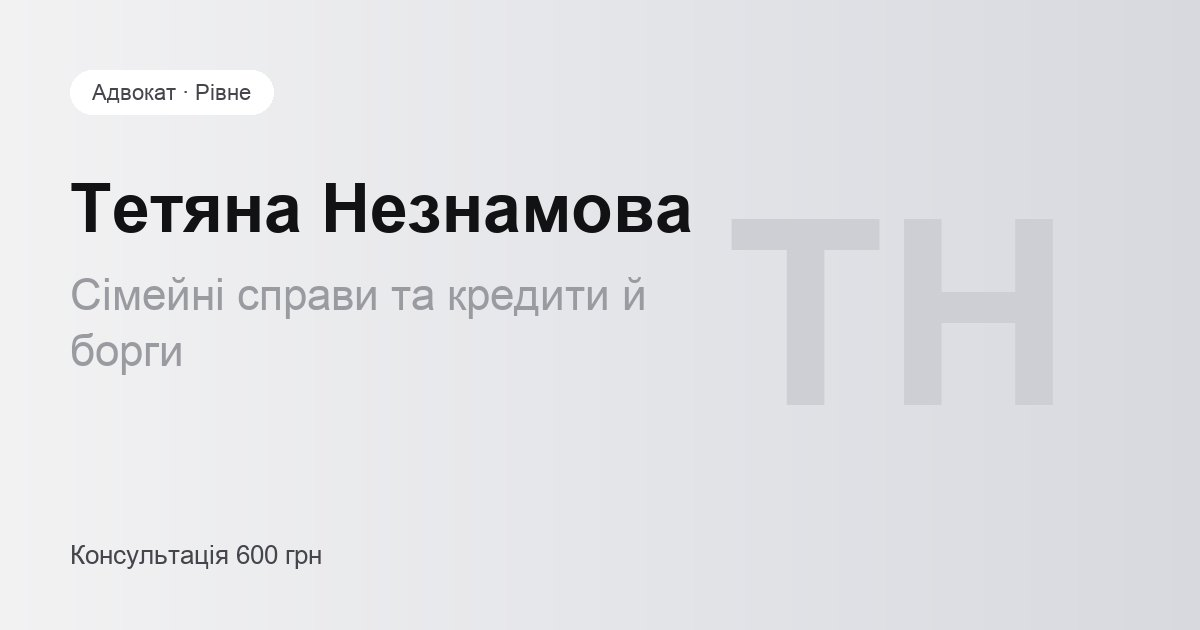
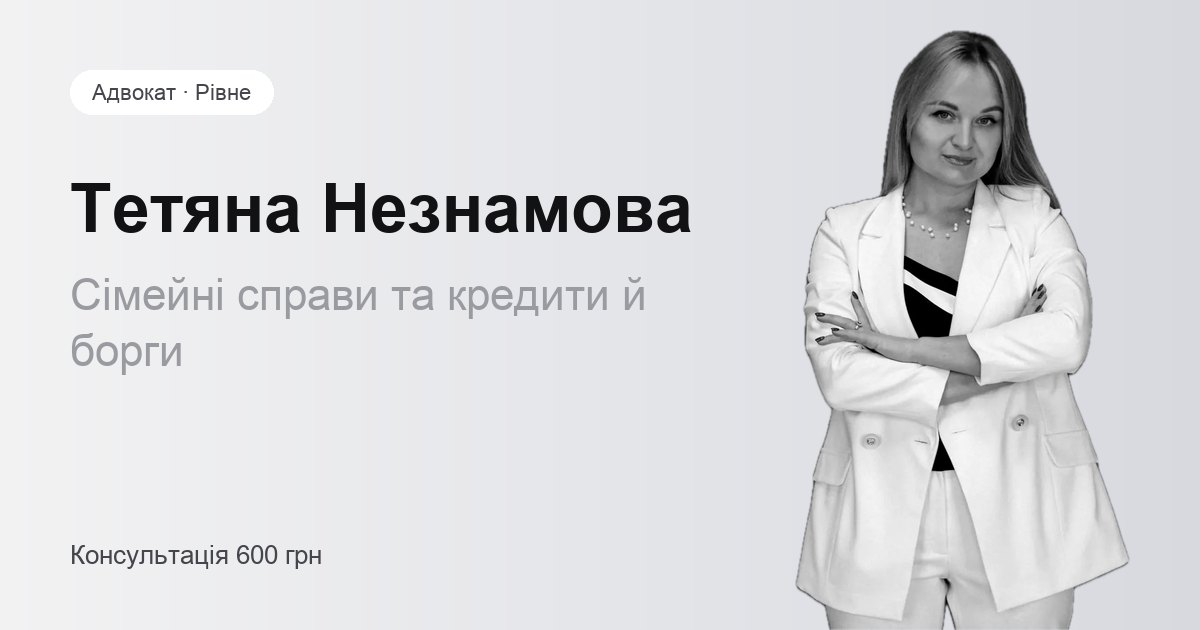
Незнамова: фото замість монограми

Changed region(s): [[0.6475, 0.0302, 0.925, 1.0], [0.925, 0.8444, 0.9558, 0.8746], [0.8942, 0.9048, 0.925, 0.9349]]

diff --git a/public/neznamova/index.html b/public/neznamova/index.html
@@ -22,8 +22,9 @@
   <link rel="preconnect" href="https://fonts.googleapis.com">
   <link rel="preconnect" href="https://fonts.gstatic.com" crossorigin>
   <link rel="stylesheet" href="https://fonts.googleapis.com/css2?family=Onest:wght@400;500;600&display=swap">
-  <link rel="stylesheet" href="/css/style.css?v=1795703039">
-  <script type="application/ld+json">{"@context": "https://schema.org", "@type": "Attorney", "name": "Тетяна Незнамова", "url": "https://advokat-site.pages.dev/neznamova/", "telephone": "+380000000000", "address": {"@type": "PostalAddress", "streetAddress": "вул. Соборна, 00, офіс 0", "addressLocality": "Рівне", "addressCountry": "UA"}, "areaServed": "Рівне", "knowsAbout": ["сімейні справи", "кредити й борги"]}</script>
+  <link rel="preload" as="image" href="/img/leads/neznamova/cut-1100.webp" imagesrcset="/img/leads/neznamova/cut-700.webp 700w, /img/leads/neznamova/cut-1100.webp 1100w" imagesizes="(min-width: 1024px) 470px, 92vw">
+  <link rel="stylesheet" href="/css/style.css?v=1795703171">
+  <script type="application/ld+json">{"@context": "https://schema.org", "@type": "Attorney", "name": "Тетяна Незнамова", "url": "https://advokat-site.pages.dev/neznamova/", "telephone": "+380000000000", "address": {"@type": "PostalAddress", "streetAddress": "вул. Соборна, 00, офіс 0", "addressLocality": "Рівне", "addressCountry": "UA"}, "areaServed": "Рівне", "knowsAbout": ["сімейні справи", "кредити й борги"], "image": "https://advokat-site.pages.dev/img/leads/neznamova/cut-1100.webp"}</script>
 </head>
 <body>
   <a class="skip" href="#main">Перейти до змісту</a>
@@ -71,7 +72,9 @@
             </dl>
           </div>
 
-          <div class="hero__mono" aria-hidden="true"><span>ТН</span></div>
+          <div class="hero__person">
+            <img src="/img/leads/neznamova/cut-1100.webp" srcset="/img/leads/neznamova/cut-700.webp 700w, /img/leads/neznamova/cut-1100.webp 1100w" sizes="(min-width: 1024px) 470px, 92vw" width="1100" height="1728" alt="Тетяна Незнамова, адвокат" fetchpriority="high">
+          </div>
 
           <a class="glass" href="#contact">
             <span class="glass__text">
@@ -186,8 +189,8 @@
     <!-- 4. Про мене -->
     <section class="section" id="about" aria-labelledby="about-title">
       <div class="wrap about">
-        <div class="about__photo about__photo--mono">
-          <span class="about__mono" aria-hidden="true">ТН</span>
+        <div class="about__photo">
+          <img src="/img/leads/neznamova/cut-1100.webp" srcset="/img/leads/neznamova/cut-700.webp 700w, /img/leads/neznamova/cut-1100.webp 1100w" sizes="(min-width: 1024px) 40vw, 92vw" width="1100" height="1728" alt="Тетяна Незнамова, адвокат" loading="lazy">
           <p class="about__badge"><span>Адвокат</span><b>з 2019 року</b></p>
         </div>
         <div class="about__body">
@@ -314,7 +317,7 @@
     </div>
   </div>
   <div class="memo__foot">
-    <span class="memo__avatar memo__avatar--mono">ТН</span>
+    <span class="memo__avatar"><img src="/img/leads/neznamova/cut-700.webp" width="700" height="1099" alt="" loading="lazy"></span>
     <p class="memo__note">Це загальні кроки. Що робити саме у вашому випадку, скажу на консультації.</p>
     <a class="btn btn--dark memo__cta" href="#contact" data-situation="Розлучення, коли є спільні діти">Записатись з цією ситуацією</a>
   </div>
@@ -334,7 +337,7 @@
     </div>
   </div>
   <div class="memo__foot">
-    <span class="memo__avatar memo__avatar--mono">ТН</span>
+    <span class="memo__avatar"><img src="/img/leads/neznamova/cut-700.webp" width="700" height="1099" alt="" loading="lazy"></span>
     <p class="memo__note">Це загальні кроки. Що робити саме у вашому випадку, скажу на консультації.</p>
     <a class="btn btn--dark memo__cta" href="#contact" data-situation="Аліменти: стягнути, змінити розмір або погасити борг">Записатись з цією ситуацією</a>
   </div>
@@ -354,7 +357,7 @@
     </div>
   </div>
   <div class="memo__foot">
-    <span class="memo__avatar memo__avatar--mono">ТН</span>
+    <span class="memo__avatar"><img src="/img/leads/neznamova/cut-700.webp" width="700" height="1099" alt="" loading="lazy"></span>
     <p class="memo__note">Це загальні кроки. Що робити саме у вашому випадку, скажу на консультації.</p>
     <a class="btn btn--dark memo__cta" href="#contact" data-situation="Поділ майна після розлучення">Записатись з цією ситуацією</a>
   </div>
@@ -374,7 +377,7 @@
     </div>
   </div>
   <div class="memo__foot">
-    <span class="memo__avatar memo__avatar--mono">ТН</span>
+    <span class="memo__avatar"><img src="/img/leads/neznamova/cut-700.webp" width="700" height="1099" alt="" loading="lazy"></span>
     <p class="memo__note">Це загальні кроки. Що робити саме у вашому випадку, скажу на консультації.</p>
     <a class="btn btn--dark memo__cta" href="#contact" data-situation="Борг за кредитом і дзвінки колекторів">Записатись з цією ситуацією</a>
   </div>
@@ -394,7 +397,7 @@
     </div>
   </div>
   <div class="memo__foot">
-    <span class="memo__avatar memo__avatar--mono">ТН</span>
+    <span class="memo__avatar"><img src="/img/leads/neznamova/cut-700.webp" width="700" height="1099" alt="" loading="lazy"></span>
     <p class="memo__note">Це загальні кроки. Що робити саме у вашому випадку, скажу на консультації.</p>
     <a class="btn btn--dark memo__cta" href="#contact" data-situation="Позов банку або МФО про стягнення боргу">Записатись з цією ситуацією</a>
   </div>
@@ -414,7 +417,7 @@
     </div>
   </div>
   <div class="memo__foot">
-    <span class="memo__avatar memo__avatar--mono">ТН</span>
+    <span class="memo__avatar"><img src="/img/leads/neznamova/cut-700.webp" width="700" height="1099" alt="" loading="lazy"></span>
     <p class="memo__note">Це загальні кроки. Що робити саме у вашому випадку, скажу на консультації.</p>
     <a class="btn btn--dark memo__cta" href="#contact" data-situation="Виконавче провадження й арешт рахунків">Записатись з цією ситуацією</a>
   </div>
@@ -438,6 +441,6 @@
     <button type="button" data-font="mix">Мікс</button>
   </div>
 
-  <script src="/js/main.js?v=1795703039" defer></script>
+  <script src="/js/main.js?v=1795703171" defer></script>
 </body>
 </html>
